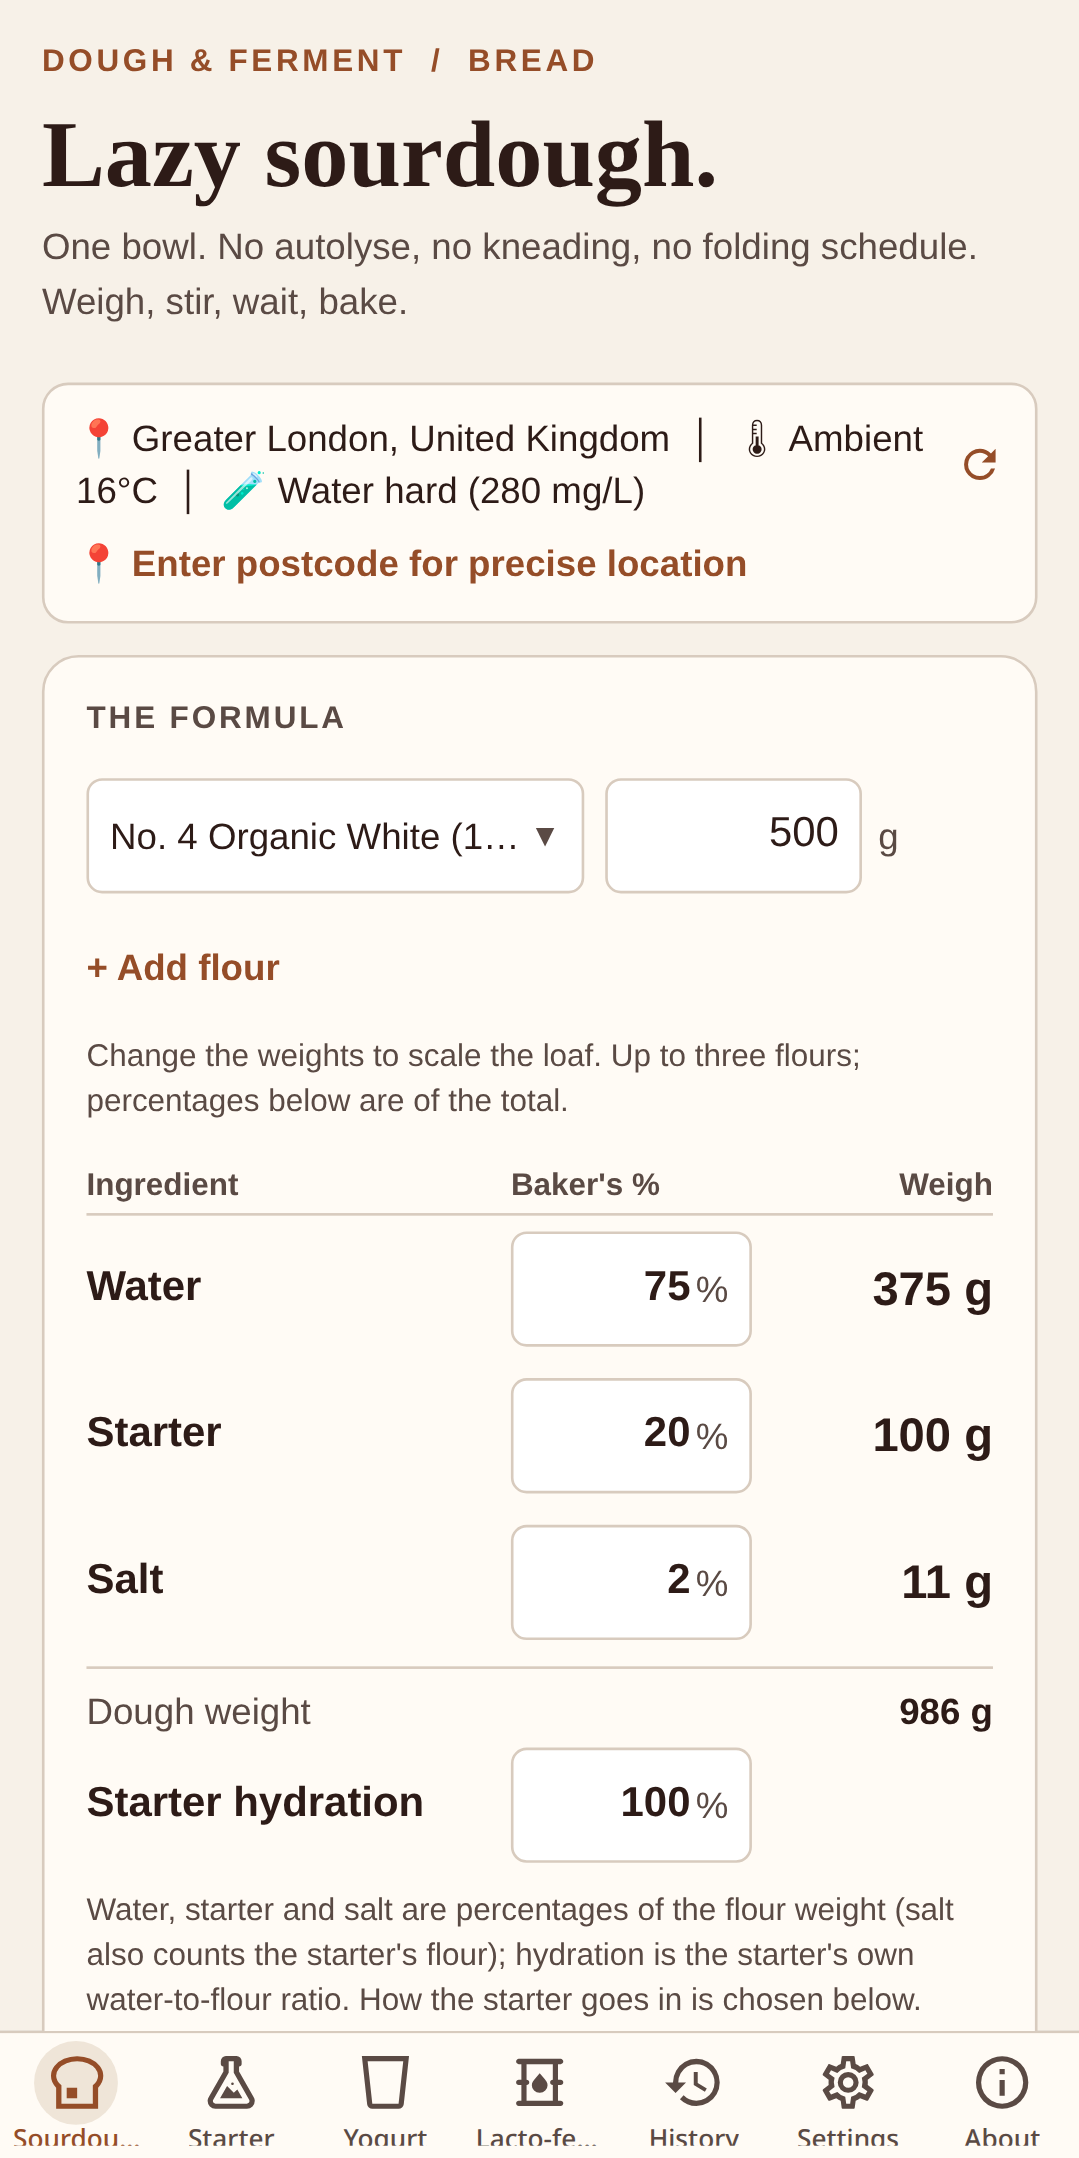
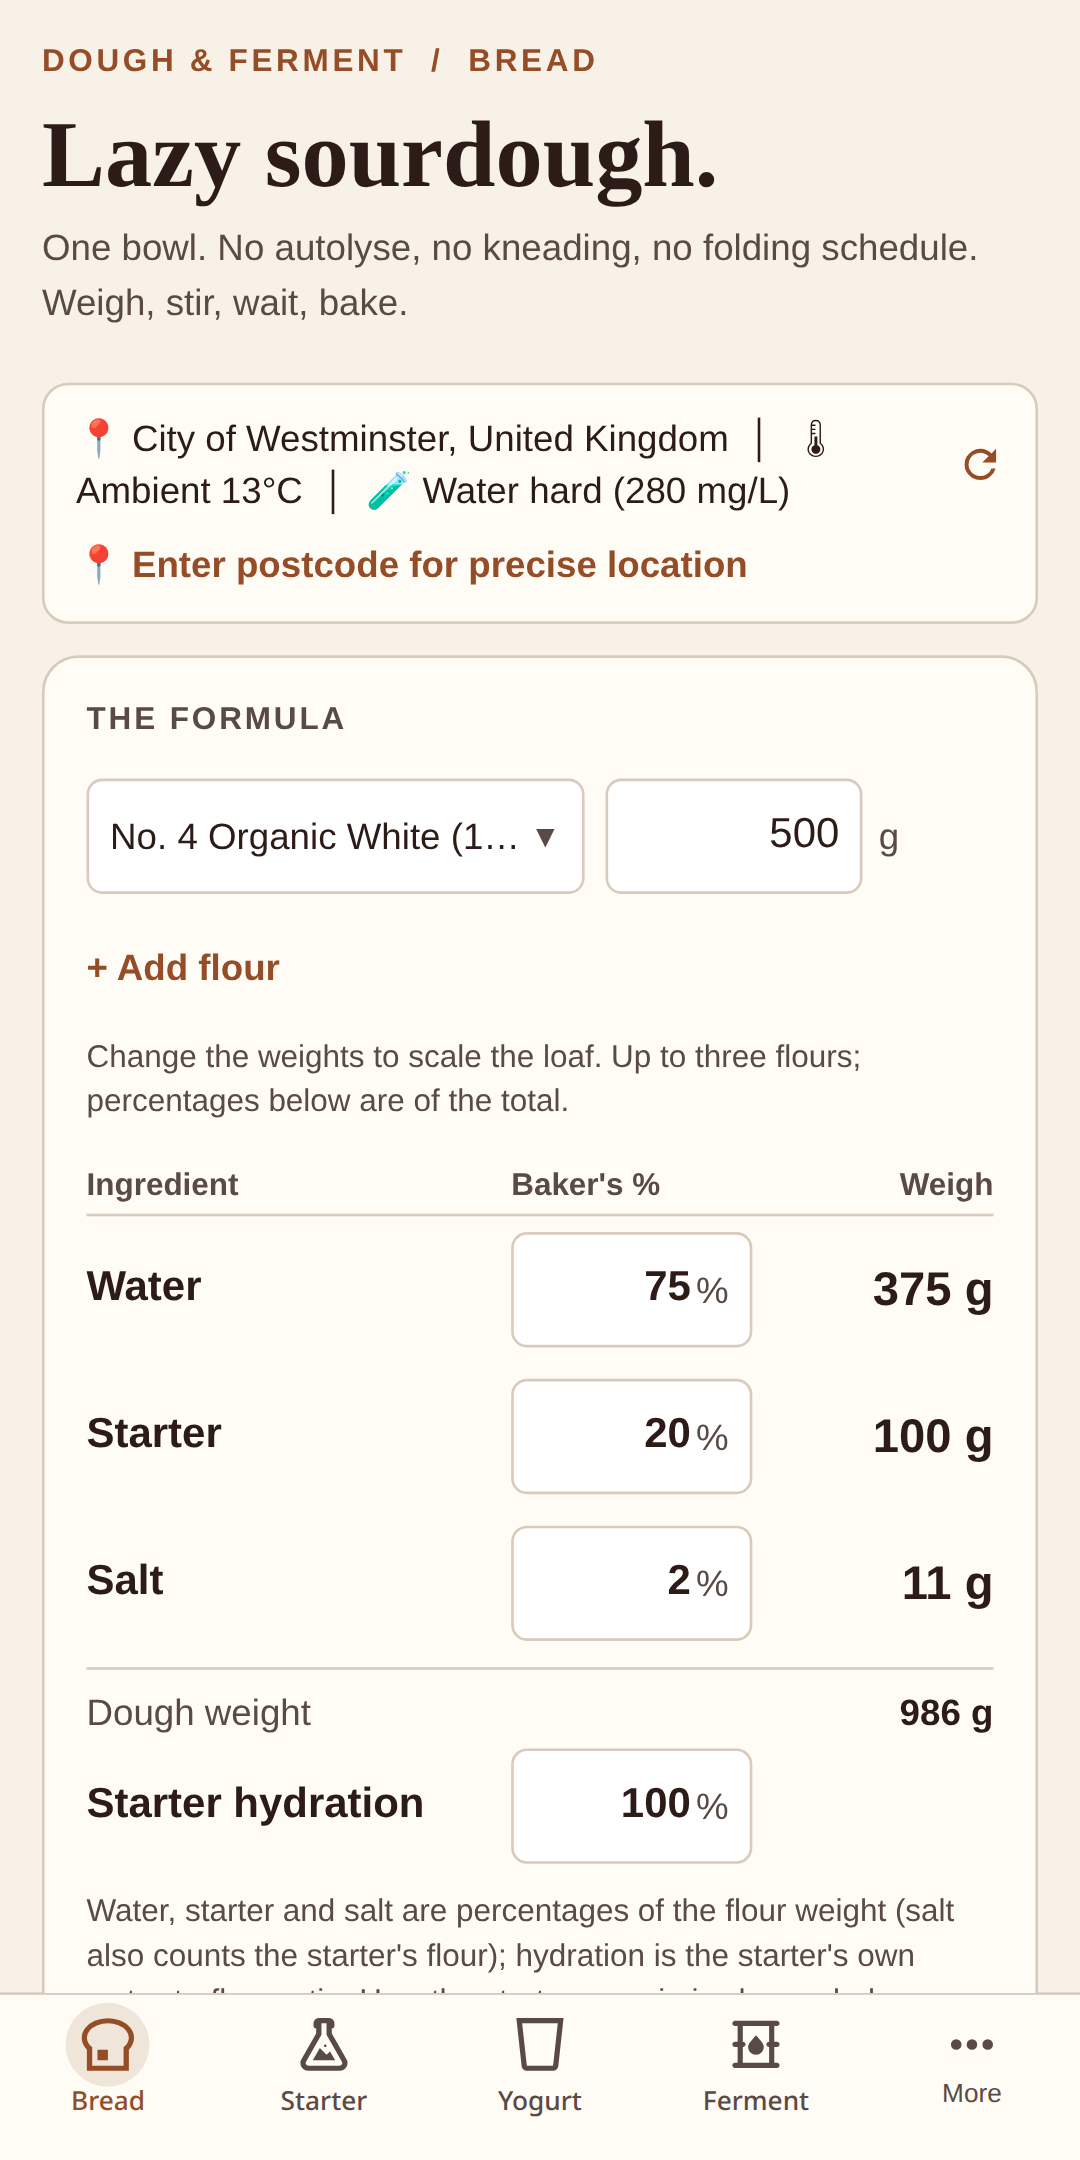
Re-render the Play screenshots for the new navigation, and give the web tab bar room for its labels
Eight 1080x2160 screenshots (the old set showed the 7-tab bar and was 1 px short
of Play's 1080 minimum), including the new More screen. The 48 px web tab bar
clipped the labels under the 32 px icon circle, so the web build gets a 64 px bar;
native bars are unchanged.

Claude-Session: https://claude.ai/session_01TReCn4SiYu9A67g5BvZYiY

diff --git a/SourDoughMobile/app/(tabs)/_layout.tsx b/SourDoughMobile/app/(tabs)/_layout.tsx
@@ -1,5 +1,5 @@
 import { Tabs, usePathname } from 'expo-router';
-import { View, Text, StyleSheet } from 'react-native';
+import { View, Text, Platform, StyleSheet } from 'react-native';
 
 import { useBreakpoint } from '@/src/hooks/useBreakpoint';
 import { Sidebar } from '@/src/components/Sidebar';
@@ -60,6 +60,9 @@ export default function TabLayout() {
                 ...tabBarStyle,
                 // Hide the bottom tab bar on desktop (sidebar replaces it)
                 display: isDesktop ? 'none' : 'flex',
+                // The icon circle plus its label is taller than the default bar; on a phone the system inset
+                // absorbs the difference, on the web there is no inset and the label would be clipped.
+                ...(Platform.OS === 'web' ? { height: 64 } : null),
               },
               headerShown: false,
             }}
@@ -97,6 +100,7 @@ export default function TabLayout() {
               options={{
                 title: 'More',
                 // History, Settings and About open from More; the bar keeps More lit while they are showing.
+                // (The tint options apply to the whole bar, so More lights itself up here rather than through them.)
                 tabBarIcon: ({ focused, color }) => (
                   <TabIcon name={TAB_ICONS.more} focused={focused || moreActive} color={(moreActive ? colors.terracotta : color) as string} />
                 ),

diff --git a/SourDoughMobile/PLAY_RELEASE.md b/SourDoughMobile/PLAY_RELEASE.md
@@ -17,7 +17,7 @@ package; a draft release goes up with `play-upload.sh`.
 | Store listing | saved in Console, "Ready to send for review" (title, short and full description, icon, feature graphic, 7 screenshots); source `STORE_LISTING.md` |
 | Privacy policy | https://sourdoughcalculator.uk/privacy (renders `PRIVACY.md`); needs a push to show the new name |
 | Setup forms in Console | all done (content rating by the user; AI-generated-assets declaration: icon and feature graphic labelled; the new icon and feature graphic are code-drawn by Claude, so keep the label) |
-| Screenshots | 7 uploaded (they show the old 7-tab bar; re-render them to match the four-tools-and-More bar before the next submission) (`../play-assets/screenshots/`), rendered from the app's own web build at phone size (412x824 at 2.62x, 1079x2158) because the emulator crashes on this machine and the phone was not connected; native status bar and nav bar are not in them. Promotion eligibility wants 1080 px or more per side, these are 1079 wide |
+| Screenshots | 8 uploaded (`../play-assets/screenshots/`, 1080x2160), re-rendered 2026-10-30 from the app's own web build to show the four-tools-and-More bar (landing, bread formula, bread plan, starter, yogurt, lacto-ferment, More, settings); uploaded through the API, which sent them for review together with the icon. Native status bar and nav bar are not in them. The web export clipped the tab labels (48 px bar), so `_layout.tsx` gives the web bar a 64 px height; phones are unaffected |
 | Feature graphic | done (`../play-assets/feature-graphic.png`, 1024x500) |
 | Sent for review | yes, 2026-10-30: 8 changes (listing, content rating, audience, privacy policy, ads, data safety, health, category); Play's quick checks run first, review usually takes up to about 7 days |
 | **Review result** | **Rejected 2026-10-30 (Metadata policy, "Hi-res icon (en-GB)")**: the store icon was the Expo template's blue chevron on a blueprint grid, nothing to do with the app. The same placeholder was the launcher icon, adaptive icon, monochrome icon, splash and favicon. Replaced on 2026-10-30 by a new set (loaf and a bubbling jar on a cream disc, dark brown field, the same family as the web apps' icons) in `assets/images/`, plus `../play-assets/icon-512.png` and a feature graphic that uses it. Build 4 (3.0.1) is on the internal track and the listing's icon and feature graphic were replaced through the API on 2026-10-30 (committed with `changesNotSentForReview=true`: the API refuses to send changes for review itself). On 2026-10-30 the two listing changes (icon, feature graphic) were sent for review from the Console (Publishing overview) on their own. The user's pending PRODUCTION release (build 3, 3.0.0, 177 countries + rest of world, notes "Initial release") was deliberately held back with "Save for later": build 3 still has the old chevron icon and 7-tab bar. Before releasing to production: repoint that release at build 4 (or newer), re-render the screenshots for the new bar, and wait for the icon review to pass. Production already holds build 3 per the API, so check what the Console says before submitting |
